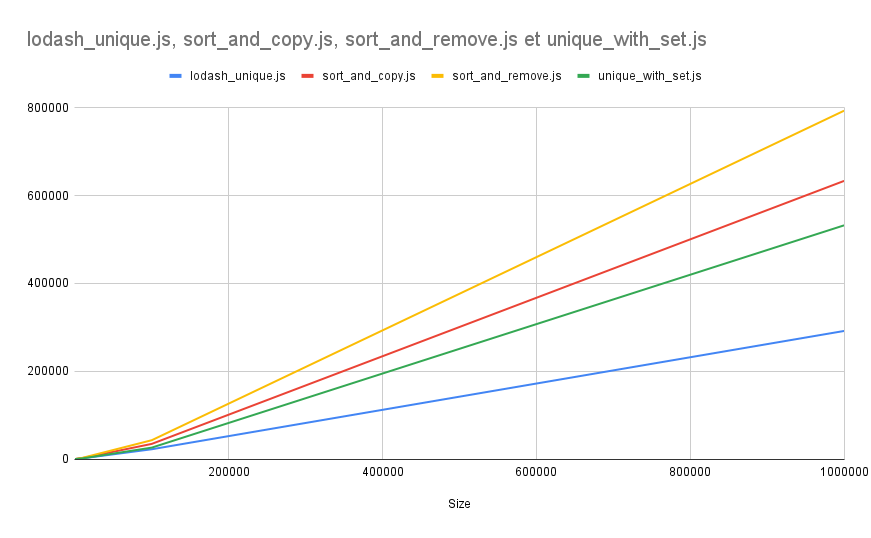
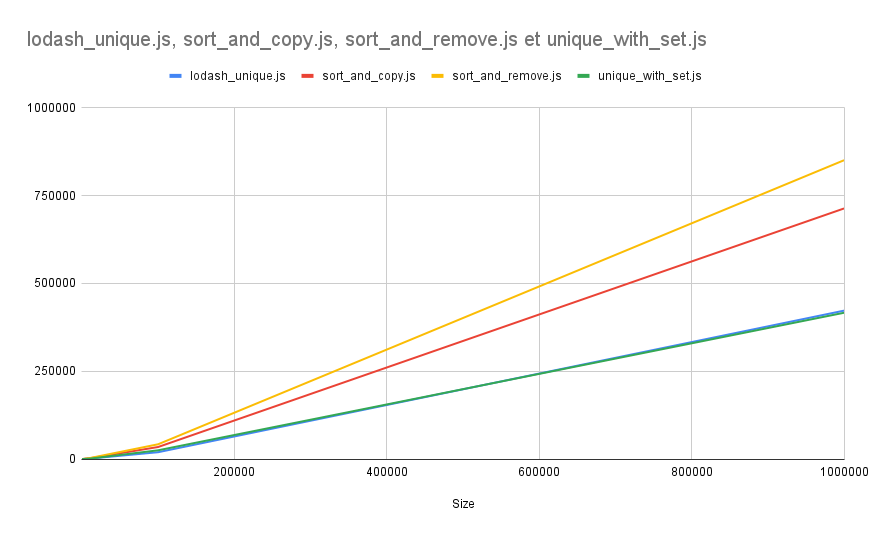
fix benchmark

diff --git a/benchmarks/array_unique/sort_and_remove.js b/benchmarks/array_unique/sort_and_remove.js
@@ -2,7 +2,8 @@ class SortAndRemove {
   constructor(arraySize, PRNG) {
     this.array = [];
     for (let i = 0; i < arraySize; i++) {
-      this.array.push(Math.floor(PRNG.next() * arraySize).toString());
+      const value = (Math.floor(PRNG.next() * arraySize) % (arraySize >> 1)).toString();
+      this.array.push(value).toString();
     }
   }
 

diff --git a/benchmarks/array_unique/unique_with_set.js b/benchmarks/array_unique/unique_with_set.js
@@ -2,7 +2,8 @@ class UniqueWithSet {
   constructor(arraySize, PRNG) {
     this.array = [];
     for (let i = 0; i < arraySize; i++) {
-      this.array.push(Math.floor(PRNG.next() * arraySize).toString());
+      const value = (Math.floor(PRNG.next() * arraySize) % (arraySize >> 1)).toString();
+      this.array.push(value).toString();
     }
   }
 

diff --git a/benchmarks/array_unique/sort_and_copy.js b/benchmarks/array_unique/sort_and_copy.js
@@ -2,7 +2,8 @@ class SortAndCopy {
   constructor(arraySize, PRNG) {
     this.array = [];
     for (let i = 0; i < arraySize; i++) {
-      this.array.push(Math.floor(PRNG.next() * arraySize).toString());
+      const value = (Math.floor(PRNG.next() * arraySize) % (arraySize >> 1)).toString();
+      this.array.push(value).toString();
     }
   }
 

diff --git a/benchmarks/array_unique/lodash_unique.js b/benchmarks/array_unique/lodash_unique.js
@@ -4,7 +4,8 @@ class UniqueWithLodash {
   constructor(arraySize, PRNG) {
     this.array = [];
     for (let i = 0; i < arraySize; i++) {
-      this.array.push(Math.floor(PRNG.next() * arraySize));
+      const value = (Math.floor(PRNG.next() * arraySize) % (arraySize >> 1)).toString();
+      this.array.push(value).toString();
     }
   }
 

diff --git a/benchmarks/array_unique/README.md b/benchmarks/array_unique/README.md
@@ -16,12 +16,12 @@
 
 | Array Size | lodash_unique.js (µs) | sort_and_copy.js (µs) | sort_and_remove.js (µs) | unique_with_set.js (µs) |
 | ---------- | --------------------- | --------------------- | ----------------------- | ----------------------- |
-| 1          | 8                     | 3.5                   | 3.4                     | 9.7                     |
-| 10         | 2.6                   | 2.6                   | 2.9                     | 1.6                     |
-| 100        | 113.4                 | 21.8                  | 18.8                    | 12.9                    |
-| 1000       | 257.1                 | 261                   | 291.3                   | 181.5                   |
-| 10000      | 1684.7                | 2382.9                | 2965.9                  | 1724.2                  |
-| 100000     | 22445.4               | 34673.8               | 43054.2                 | 26164.1                 |
-| 1000000    | 291761.2              | 633470.2              | 793328.3                | 532289.2                |
+| 1          | 10.4                  | 3                     | 3                       | 3.7                     |
+| 10         | 2.6                   | 2.5                   | 2.7                     | 1.5                     |
+| 100        | 104.1                 | 14.5                  | 17                      | 9                       |
+| 1000       | 108.3                 | 244.4                 | 282.1                   | 137.3                   |
+| 10000      | 1373.9                | 2265.2                | 2781.1                  | 1243.9                  |
+| 100000     | 19619.9               | 34434.6               | 42228.5                 | 25058.4                 |
+| 1000000    | 422602.4              | 713462.9              | 850759.8                | 416560.3                |
 
 ![unique_string_graph](unique_string_graph.png)
